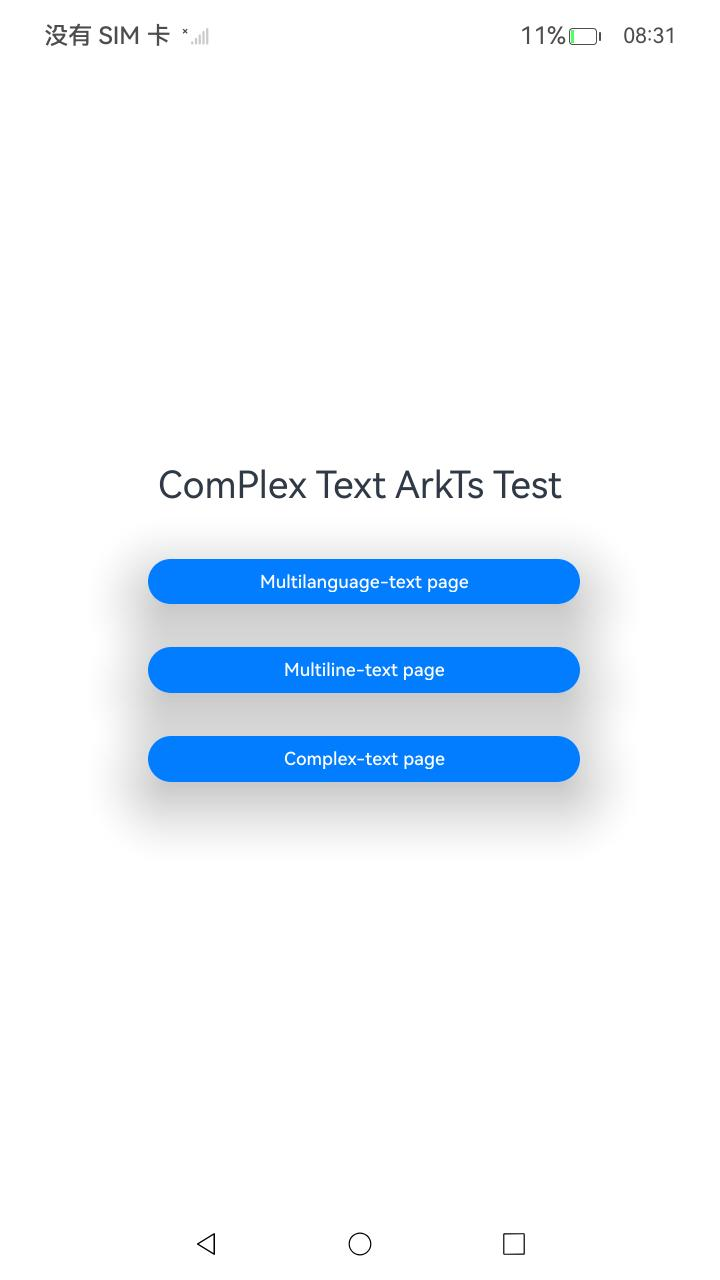
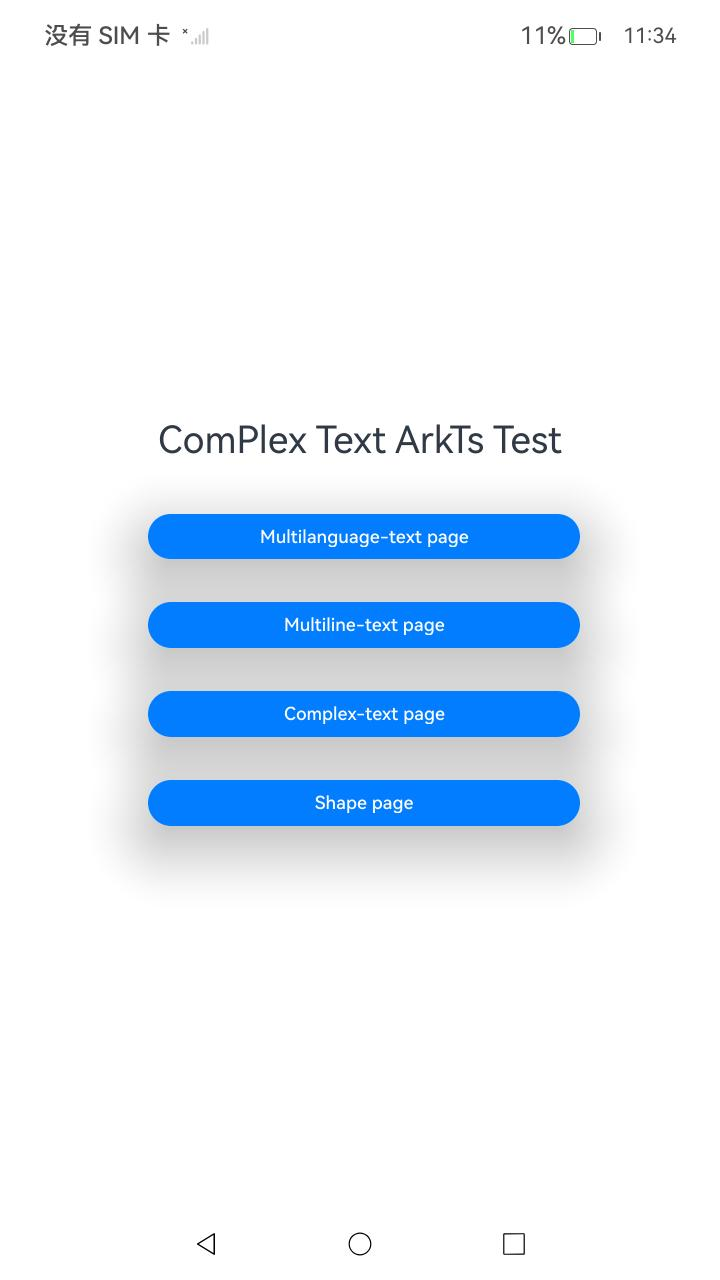
Add sample:简单文本&复杂文本 add auto

Changed region(s): [[0.1833, 0.3125, 0.825, 0.6875], [0.8556, 0.0, 0.8861, 0.0312]]

diff --git a/code/DocsSample/graphic/ArkGraphics2D/ComplexTextDrawing/ohosTest.md b/code/DocsSample/graphic/ArkGraphics2D/ComplexTextDrawing/ohosTest.md
@@ -1,10 +1,11 @@
 |          测试功能           | 预置条件         |              输入              |                                                                                       预期输出                                                                                        | 是否自动 | 测试结果 |
 |:-----------------------:|:------------:|:----------------------------:|:---------------------------------------------------------------------------------------------------------------------------------------------------------------------------------:|:----:|:----:|
 |          拉起应用           |    设备正常运行      |                              |                                                                                      成功拉起应用                                                                                       |  是   | Pass |
-|          主页展示           |    设备正常运行      |                              |                                                        展示Multilanguage-text page、Multiline-text page和Complex-text page三个按钮                                                        |  是   | Pass |
+|          主页展示           |    设备正常运行      |                              |                                                  展示Multilanguage-text page、Multiline-text page、Complex-text page、Shape page四个按钮                                                   |  是   | Pass |
 |         主页按钮点击          |  位于主页        | 点击Multilanguage-text page 按钮 |                                                                                    显示多语言文本绘制效果                                                                                    |  是   | Pass |
 |         主页按钮点击          | 位于主页 |   点击Multiline-text page按钮    |                                                                                    显示多行文本绘制效果                                                                                     |  是   | Pass |
 |         主页按钮点击          | 位于主页 |    点击Complex-text page按钮     | 显示多样式文本绘制效果，包含Example1 (Decoration, FontFeature)、 Example2 (FontVariation, TextShadow, Placeholder)、Example3 (VerticalAlign)、Example4 (BadgeType)、Example5 (TextHighContrast)五个按钮 |  是   | Pass |
+|         主页按钮点击          | 位于主页 |    点击Shape page按钮     |                                                                                    显示独立塑形绘制效果                                                                                     |  是   | Pass |
 | Complex-text page页面按钮点击 | 位于Complex-text page页面 |    点击Example1 (Decoration, FontFeature)按钮     |                                                                              显示示例一（装饰线、字体特征）文本排版绘制效果                                                                              |  是   | Pass |
 | Complex-text page页面按钮点击 | 位于Complex-text page页面 |    点击Example2 (FontVariation, TextShadow, Placeholder)按钮     |                                                                           显示示例二（可变字体、文本阴影、占位符）文本排版绘制效果                                                                            |  是   | Pass |
 | Complex-text page页面按钮点击 | 位于Complex-text page页面 |    点击Example3 (VerticalAlign)按钮     |                                                                                显示示例三（垂直对齐）文本排版绘制效果                                                                                |  是   | Pass |

diff --git a/code/DocsSample/graphic/ArkGraphics2D/ComplexTextDrawing/README.md b/code/DocsSample/graphic/ArkGraphics2D/ComplexTextDrawing/README.md
@@ -6,8 +6,8 @@
 
 ## 效果预览
 
-| ![](screenshots/Index.png) | ![](screenshots/Multilanguage-text_page.png) | ![](screenshots/Multiline-text_page.png)   | ![](screenshots/Complex-text_page.png) | ![](screenshots/Example1_Decoration_FontFeature.png) | ![](screenshots/Example2_FontVariation_TextShadow_Placeholder.png) | ![](screenshots/Example3_VerticalAlign.png) | ![](screenshots/Example4_BadgeType.png) | ![](screenshots/Example5_TextHighContrast.png) |
-|--------|--------|--------|--------|--------|--------|--------|--------|--------|
+| ![](screenshots/Index.png) | ![](screenshots/Multilanguage-text_page.png) | ![](screenshots/Multiline-text_page.png)   | ![](screenshots/Complex-text_page.png) | ![](screenshots/Example1_Decoration_FontFeature.png) | ![](screenshots/Example2_FontVariation_TextShadow_Placeholder.png) | ![](screenshots/Example3_VerticalAlign.png) | ![](screenshots/Example4_BadgeType.png) | ![](screenshots/Example5_TextHighContrast.png) | ![](screenshots/Shape_Page.png) |
+|--------|--------|--------|--------|--------|--------|--------|--------|--------|--------|
 
 **使用方法：**
 
@@ -36,8 +36,10 @@ ArkTSDrawing
 │  │     ├─ Index.ets               // 主界面
 │  │     ├─ multilanguage
 │  │     │  └─ MultilanguageText.ets
-│  │     └─ multiline
-│  │        └─ MultilineText.ets
+│  │     ├─ multiline
+│  │     │  └─ MultilineText.ets
+│  │     └─ shape
+│  │        └─ IndependentShaping.ets
 |  ├──resources                     // 资源文件目录
 └─ ohosTest
    └──ets
